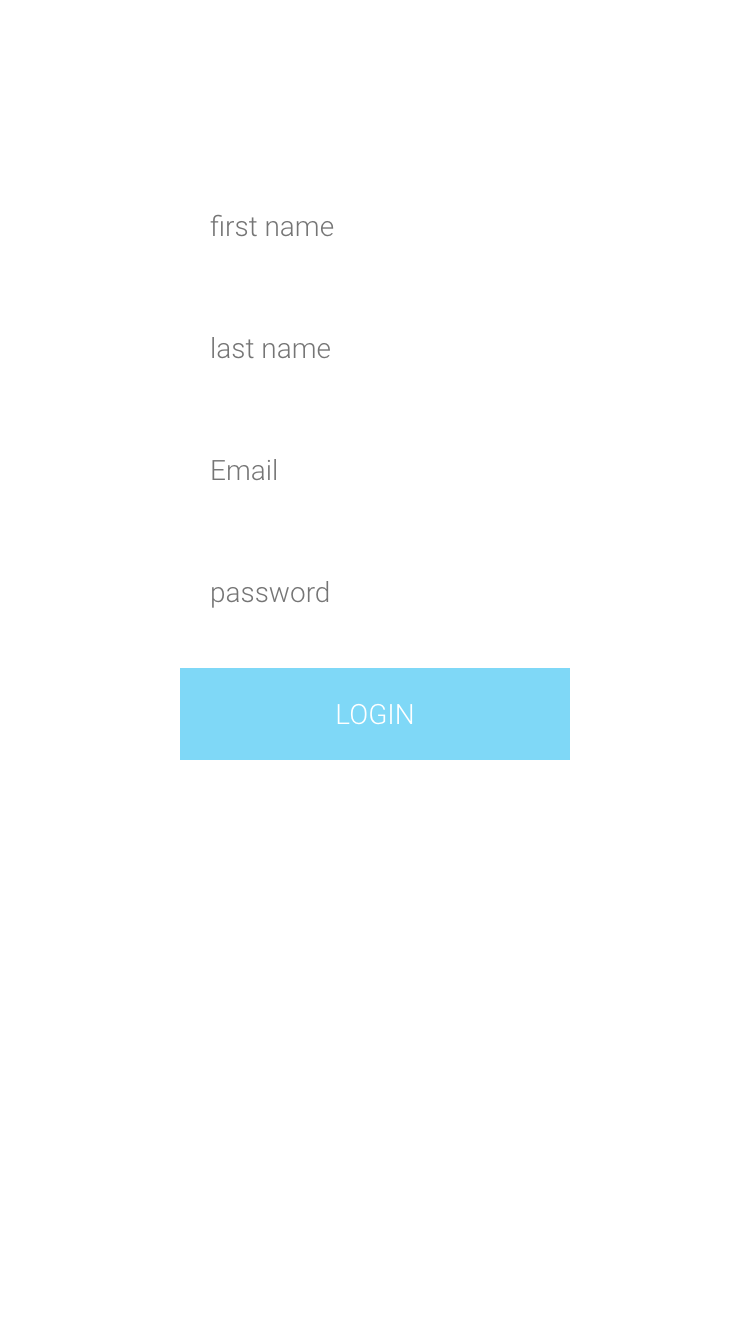
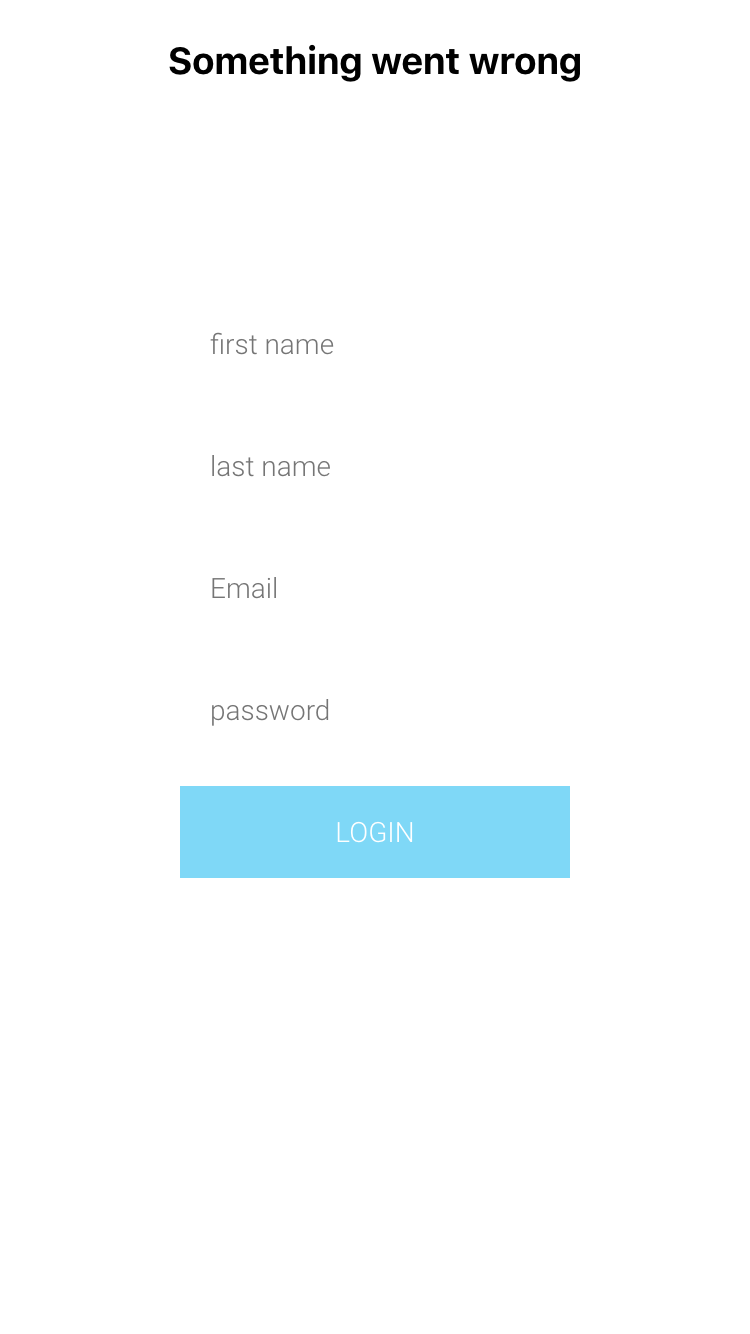
处理页面请求木有通过

diff --git a/src/App.js b/src/App.js
@@ -7,9 +7,16 @@ import SuccessMessage from './SuccessMessage'
 class App extends Component {
   state = { 
     complete: false,
-    firstName: ''
+    firstName: '',
+    pokemon: {}
    }
 
+   async componentDidMount() {
+    const data = await fetch('https://pokeapi.co/api/v2/pokedex/1/')
+    this.setState({pokemon: data})
+  }
+
+  
   handleSubmit = e => {
     e.preventDefault()
     if (document.cookie.includes('JWT')){
@@ -28,7 +35,12 @@ class App extends Component {
   render() {
     return (
       <div className="App">
-      { this.state.complete ? 
+        <h3 data-testid="pokemon">
+          {this.state.pokemon.next ? 'Received Pokemon data!' : 'Something went wrong'}
+        </h3>
+        { 
+          this.state.complete 
+          ? 
           <SuccessMessage/> 
           : 
           <Login submit={this.handleSubmit} input={this.handleInput} />

diff --git a/src/App.test.js b/src/App.test.js
@@ -25,6 +25,17 @@ beforeAll(async () => {
   browser = await puppeteer.launch(isDebugging())
   page = await browser.newPage()
   page.emulate(iPhone)
+
+  await page.setRequestInterception(true);
+  page.on('request', interceptedRequest => {
+    if (interceptedRequest.url.includes('pokeapi')) {
+      interceptedRequest.abort();
+    } else {
+      interceptedRequest.continue();
+    }
+  });
+
+
   await page.goto('http://localhost:3000/')
 })
 
